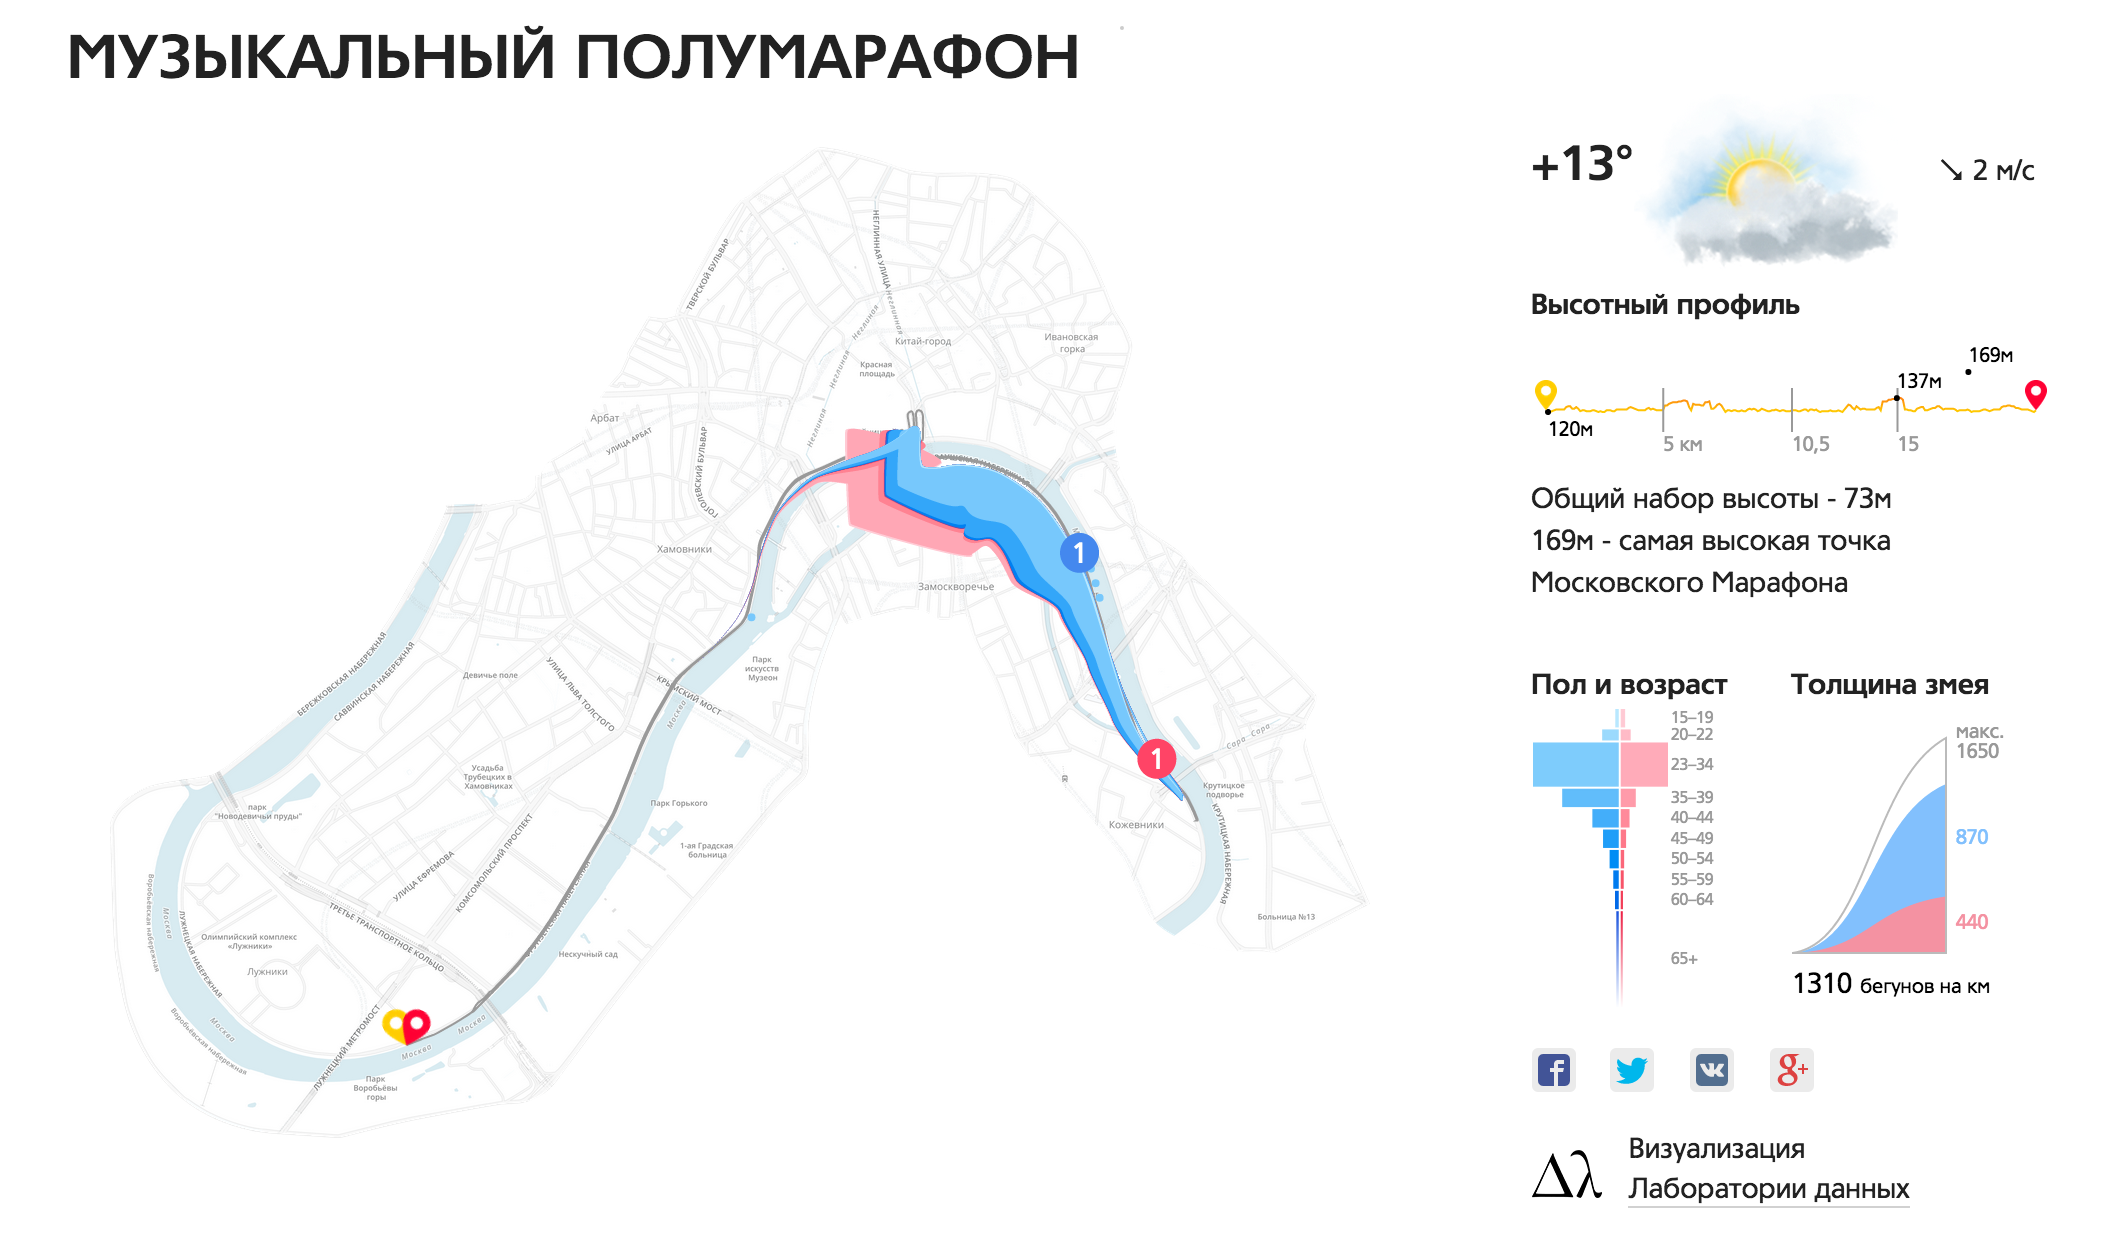
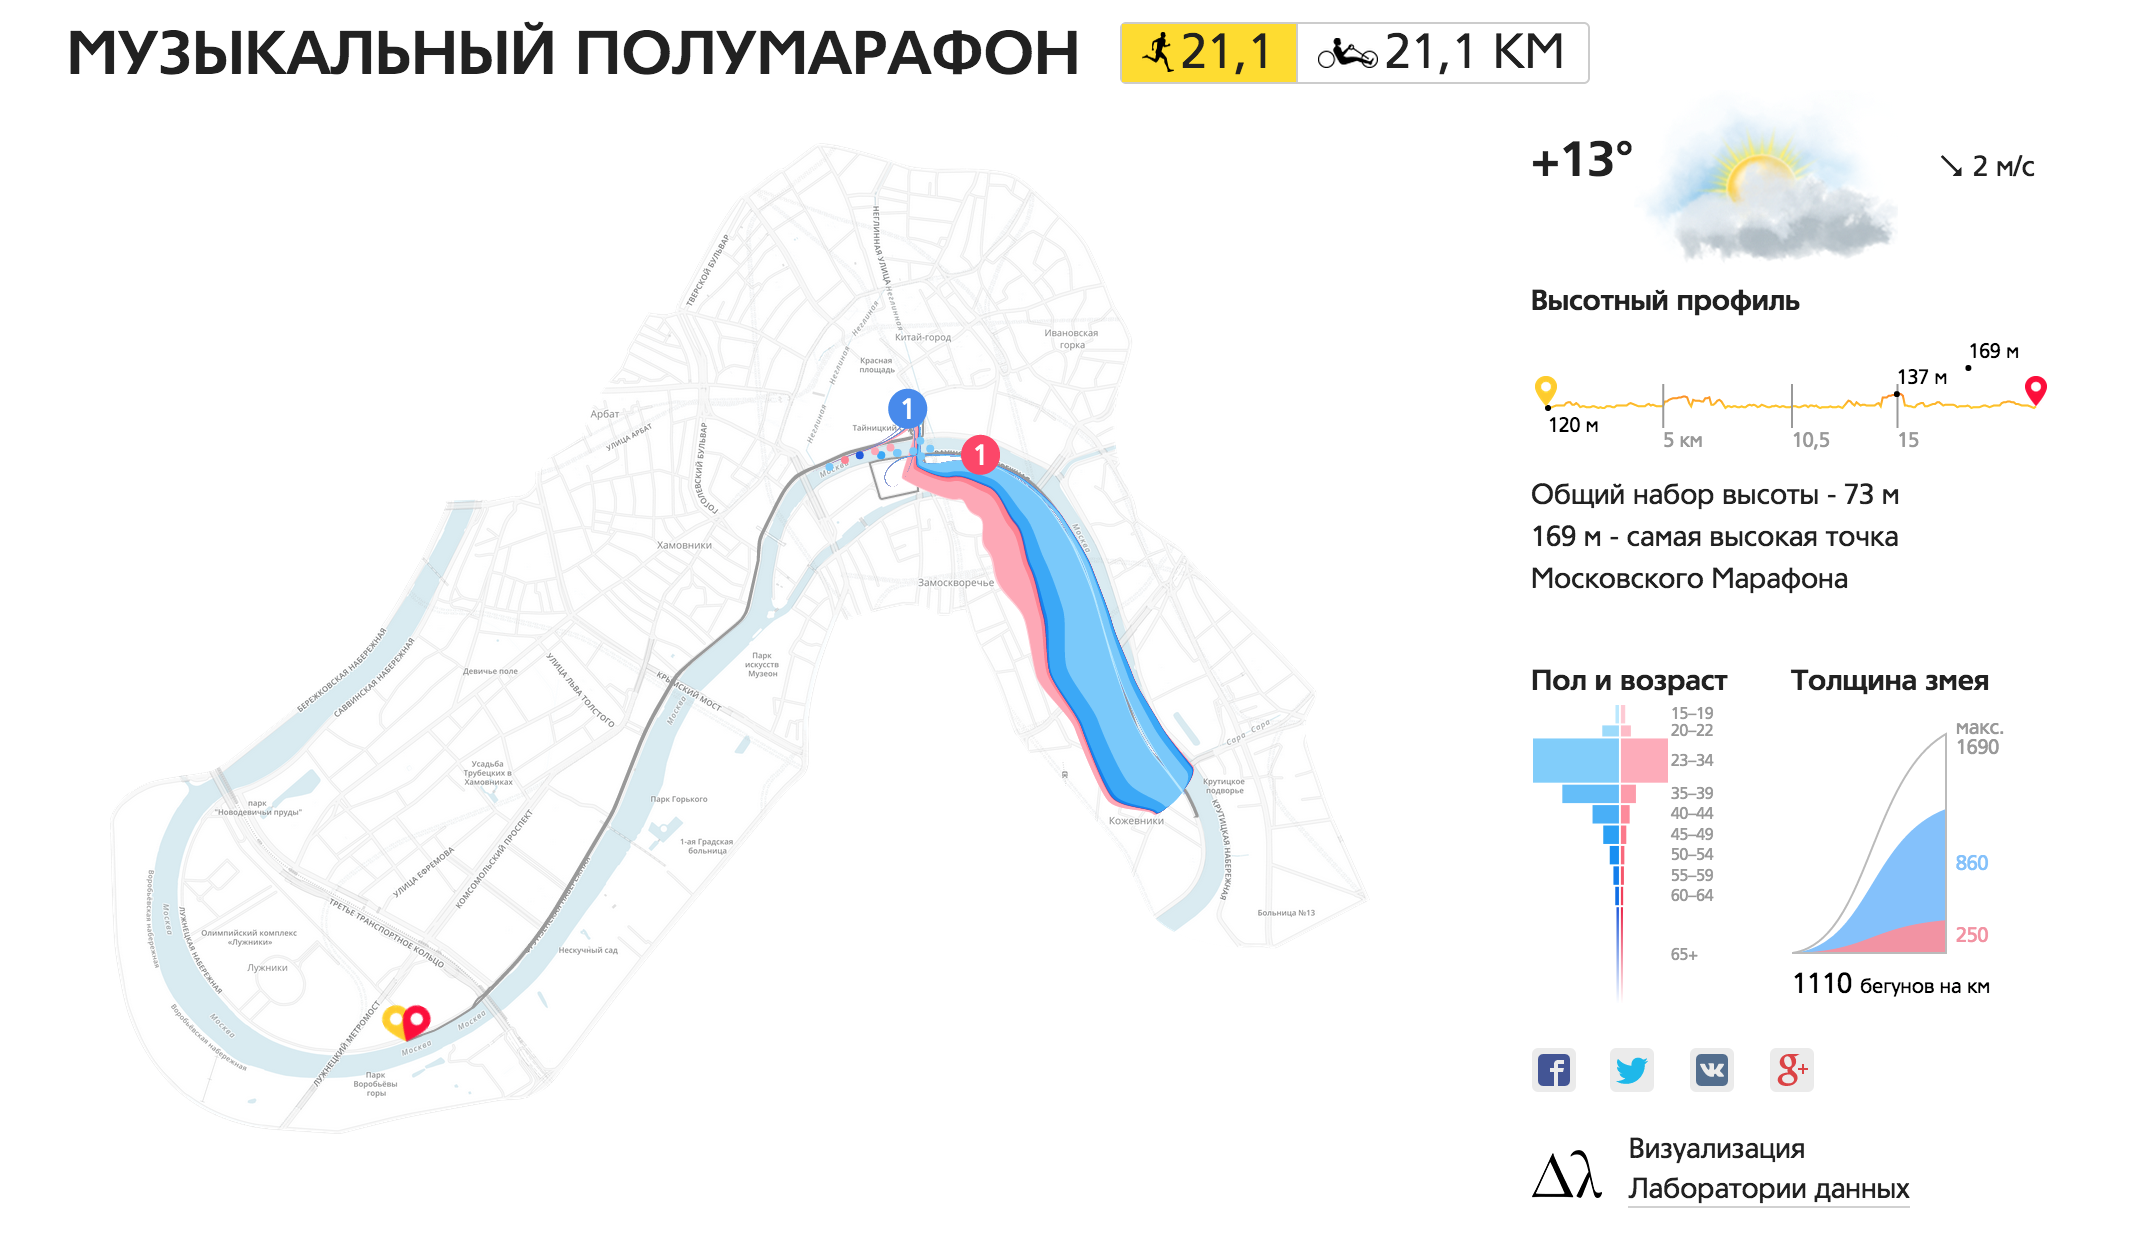
stick snake to track turn

diff --git a/src/templates/directives/altitudeLegend.html b/src/templates/directives/altitudeLegend.html
@@ -38,18 +38,18 @@
         <text
             data-ng-attr-x="{{altGraph.max.x}}"
             data-ng-attr-y="{{altGraph.max.y - 5}}"
-            class="legend-altitude__min-max-text">{{altGraph.altitudes[altGraph.max.num]}}{{'METER' | translate}}
+            class="legend-altitude__min-max-text">{{altGraph.altitudes[altGraph.max.num]}} {{'METER' | translate}}
         </text>
         <text
             data-ng-attr-x="{{altGraph.min.x}}"
             data-ng-attr-y="{{altGraph.min.y + 12}}"
-            class="legend-altitude__min-max-text">{{altGraph.altitudes[altGraph.min.num]}}{{'METER' | translate}}
+            class="legend-altitude__min-max-text">{{altGraph.altitudes[altGraph.min.num]}} {{'METER' | translate}}
         </text>
         <text
             data-ng-if="altGraph.customMaxAlt"
             data-ng-attr-x="{{altGraph.customMaxAlt.x}}"
             data-ng-attr-y="{{altGraph.customMaxAlt.y - 5}}"
-            class="legend-altitude__min-max-text">{{altGraph.customMaxAlt.alt}}{{'METER' | translate}}
+            class="legend-altitude__min-max-text">{{altGraph.customMaxAlt.alt}} {{'METER' | translate}}
         </text>
         <image xlink:href="img/mark-yel.png"
                data-ng-attr-x="{{(scaleX(0) - altGraph.imgSize / 2) | preventNaN }}"

diff --git a/src/js/services/mapHelper.js b/src/js/services/mapHelper.js
@@ -225,7 +225,11 @@ angular.module('marathon').factory('mapHelper', function (track, genderColors) {
     var getSteps = function (step, px_distance) {
         var pieces = d3.range(0, px_distance, step);
         pieces.push(px_distance);
-
+        var customPiece = 10300 / track.getTrackLength() * track.getTotalLength();
+        pieces.push(customPiece, customPiece);
+        pieces.sort(function (a, b) {
+            return a - b
+        });
         var steps = [{p: 0, l: 0}].concat(pieces.map(function (piece) {
             return {
                 p: piece,
@@ -359,6 +363,7 @@ angular.module('marathon').factory('mapHelper', function (track, genderColors) {
         var prevPosition;
 
         var complects = getBasePoints(step).complects;
+
         var prepareRunner = function (runner) {
             var current_distance = getDistanceByTime(runner, timestamp * 1);
             current_distance = Math.max(0, current_distance);

diff --git a/src/js/services/translationRu.js b/src/js/services/translationRu.js
@@ -5,7 +5,7 @@ angular.module('marathon').constant('translationRu', {
     ALTITUDE_TITLE: 'Высотный профиль',
     GENDER_AGE_TITLE: 'Пол и возраст',
     SNAKE_WIDTH_TITLE: 'Толщина змея',
-    ALTITUDE_TEXT: 'Общий набор высоты - 73м<br>169м - самая высокая точка Московского Марафона',
+    ALTITUDE_TEXT: 'Общий набор высоты - 73&nbsp;м<br>169&nbsp;м - самая высокая точка Московского Марафона',
     RESULTS: 'Результаты',
     WINNERS: 'призёров',
     WOMEN: 'женщин',

diff --git a/src/js/services/translationEn.js b/src/js/services/translationEn.js
@@ -5,7 +5,7 @@ angular.module('marathon').constant('translationEn', {
         ALTITUDE_TITLE: 'Altitude',
         GENDER_AGE_TITLE: 'Age and sex',
         SNAKE_WIDTH_TITLE: 'Snake width',
-        ALTITUDE_TEXT: 'Total climb: 73m<br>Highest point of Moscow Marathon: 169m',
+        ALTITUDE_TEXT: 'Total climb: 73&nbsp;m<br>Highest point of Moscow Marathon: 169&nbsp;m',
         RESULTS: 'Results',
         WINNERS: 'winners',
         WOMEN: 'women',

diff --git a/src/js/directives/trackSwitch.js b/src/js/directives/trackSwitch.js
@@ -9,7 +9,6 @@ angular.module('marathon').directive('trackSwitch', function ($timeout, $rootSco
                 $scope.currentTrackName = tracks.shift();
                 if (!tracks.length) {
                     $rootScope.$broadcast('lastTrack');
-                    console.log('broadcast last track');
                 }
             }
             nextTrack();
